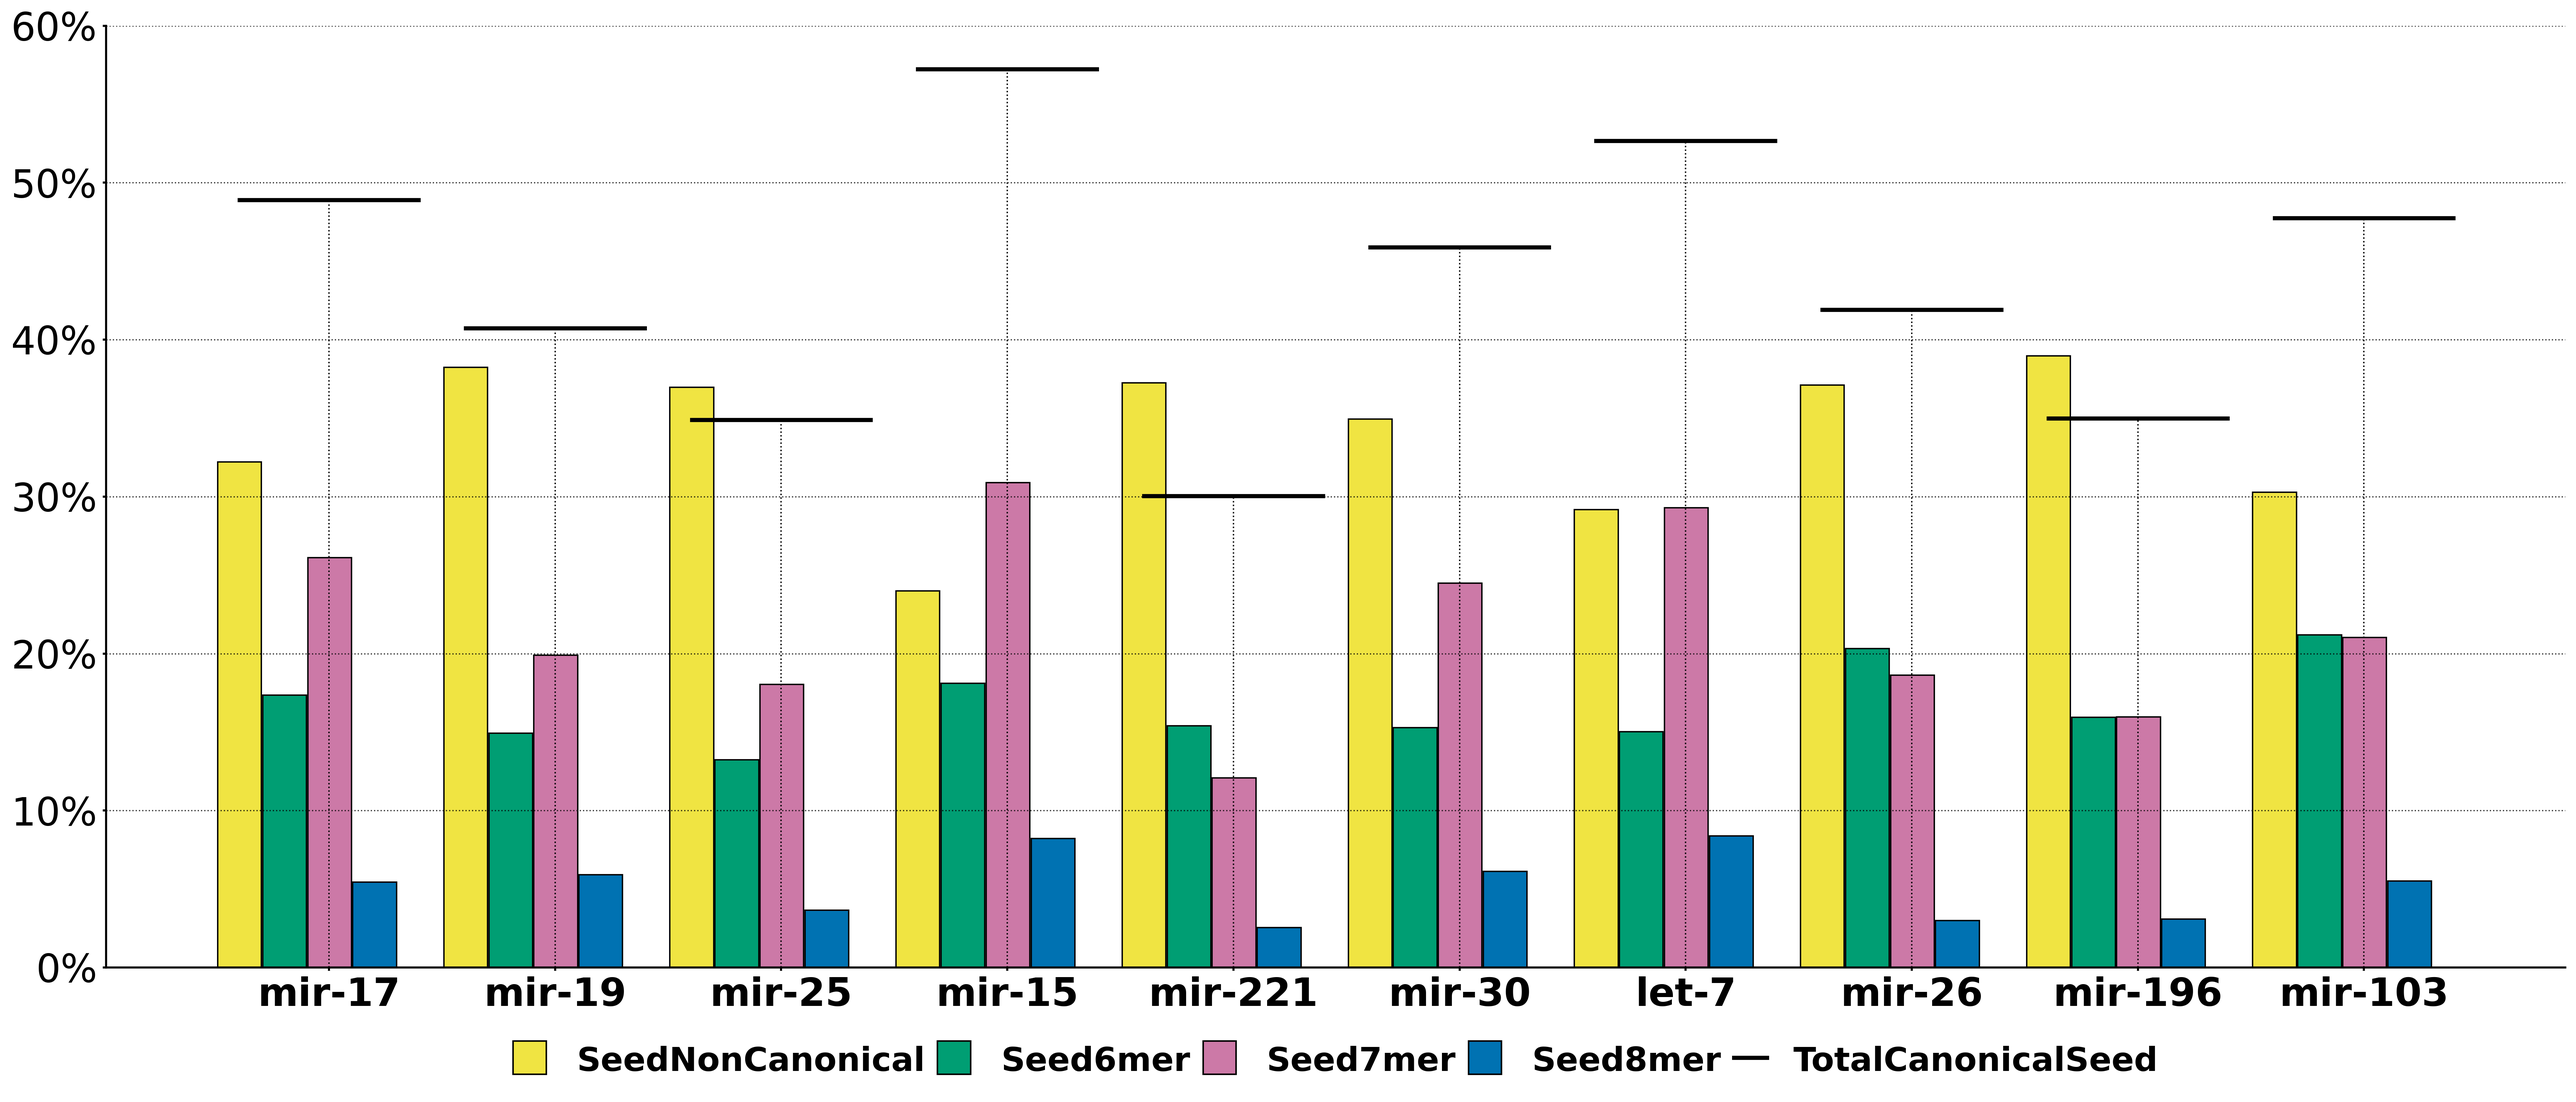
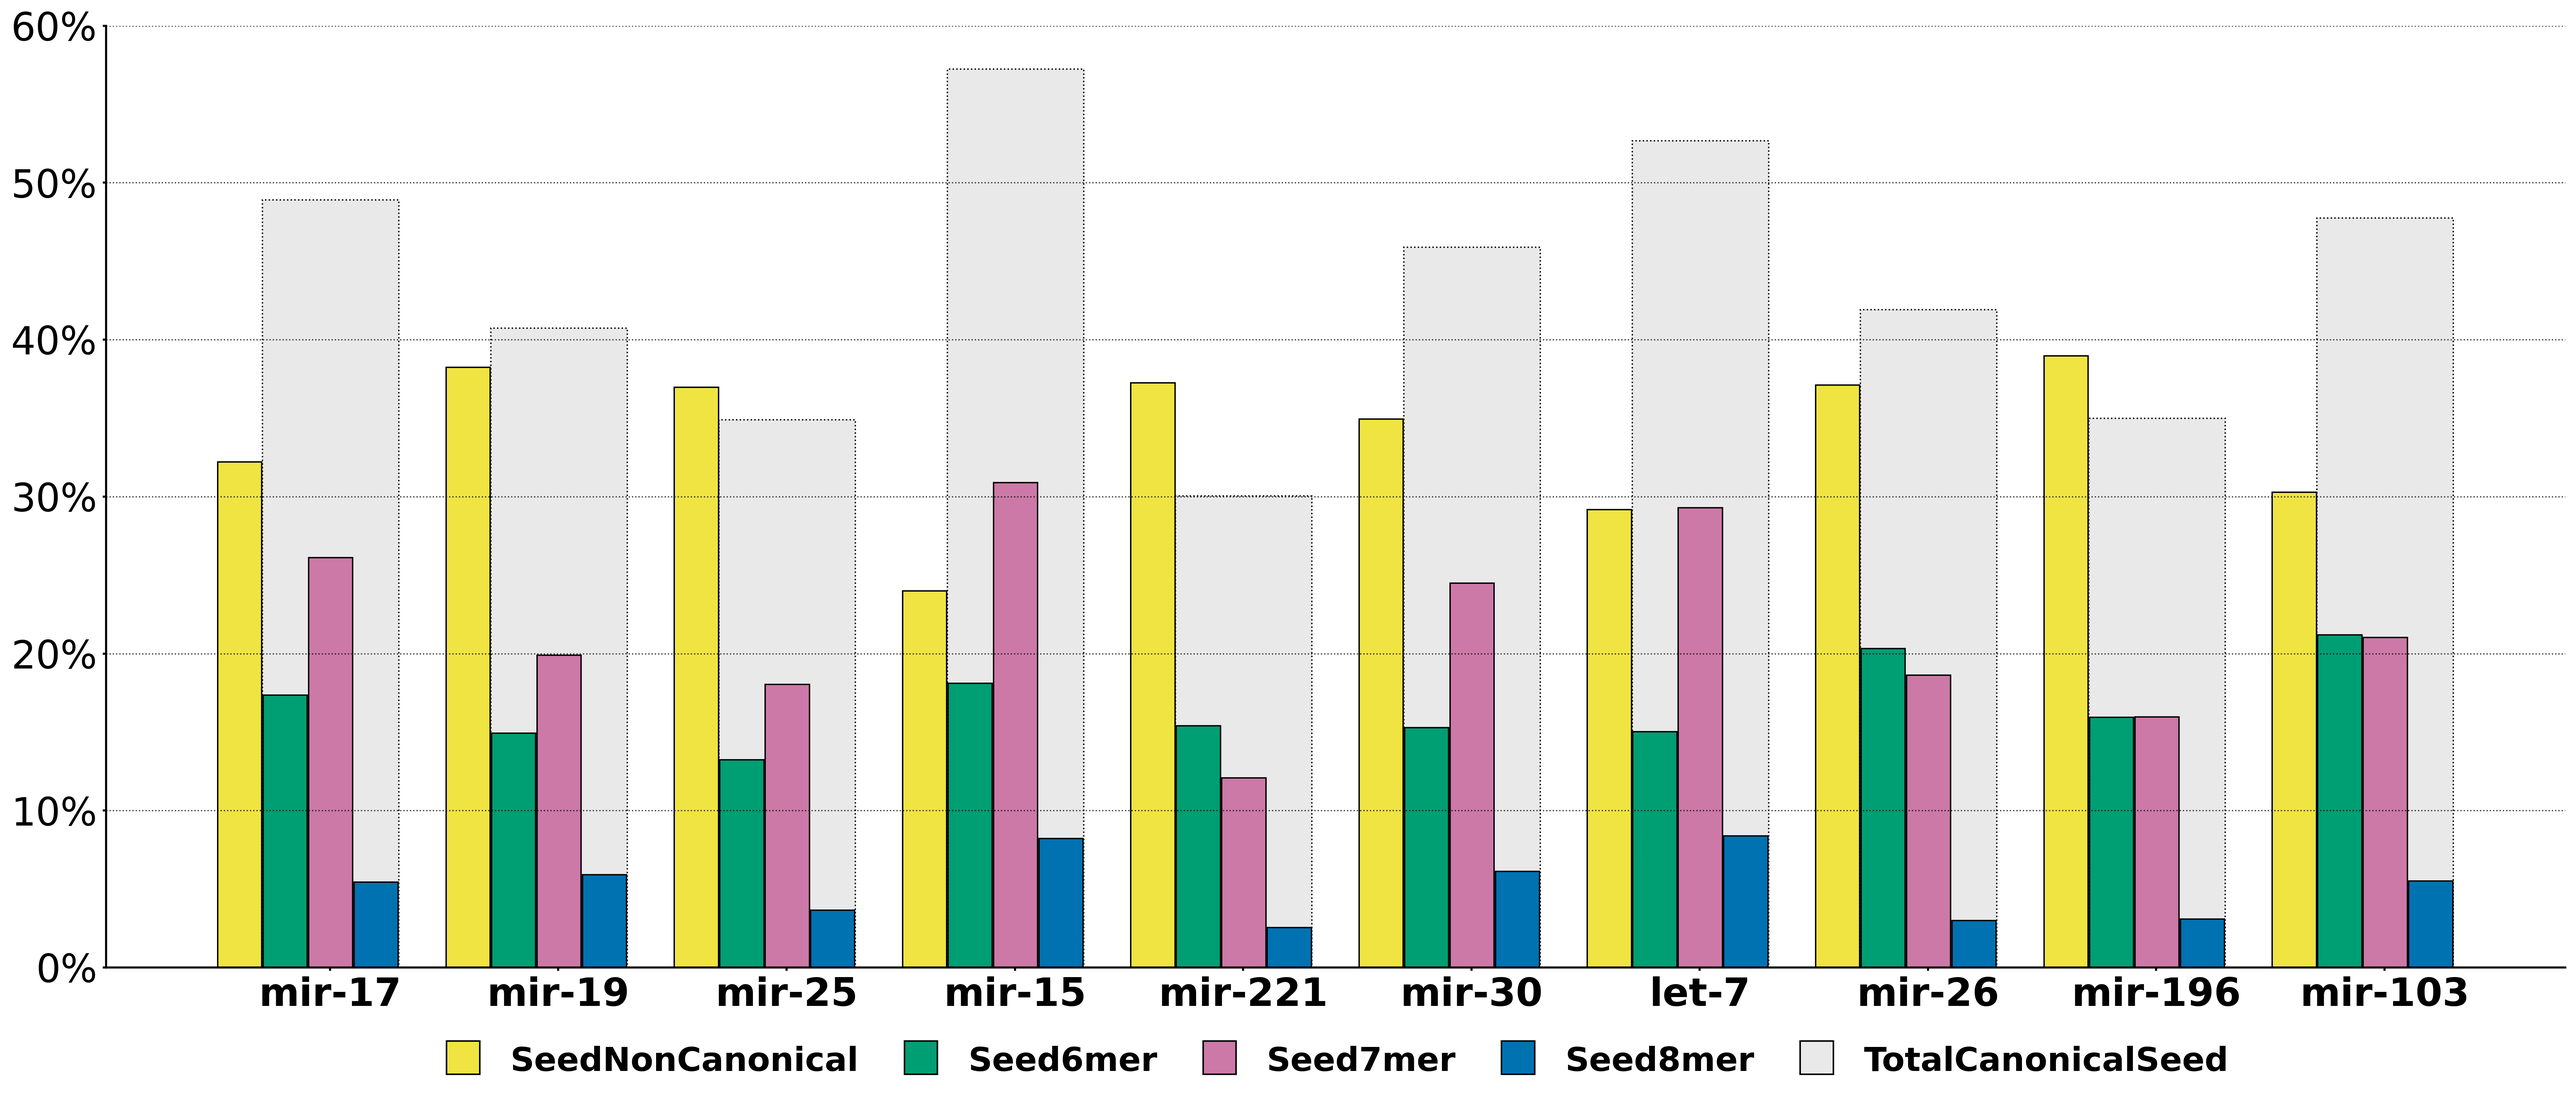
new visual for Fig3C TotalCanonicalSeed

diff --git a/code/plots/Fig3/families.py b/code/plots/Fig3/families.py
@@ -71,7 +71,7 @@ def plot_seed_prevalence(seed_percentages, output_file):
 
     fig, ax = plt.subplots(figsize=(width_inches, height_inches))
 
-    colors = ['#f0e442', '#009e73', '#cc79a7', '#0072b2']
+    colors = ['#f0e442', '#009e73', '#cc79a7', '#0072b2', '#e9e9e9']
 
     # Increase bar width even more
     bar_width = 0.0693 * scale_factor * 3.5  # Increased from 2.5 to 3.5
@@ -88,6 +88,19 @@ def plot_seed_prevalence(seed_percentages, output_file):
 
     index = [left_padding + i * (group_width + group_spacing) for i in range(len(seed_percentages.index))]
 
+    # Rectangle around three seed types for total seed percentage
+    for i, total in enumerate(seed_percentages['TotalCanonicalSeed']):
+        # Calculate the coordinates for the rectangle
+        x_start = index[i] + (bar_width + bar_spacing) / 2
+        y_start = 0
+        width = 3 * (bar_width + bar_spacing)
+        height = total
+
+        # Draw the rectangle around the group of bars
+        rect = Rectangle((x_start, y_start), width, height, facecolor=colors[-1], edgecolor='black', linestyle=':',
+                         linewidth=4 * scale_factor)
+        ax.add_patch(rect)
+
     for i, seed_type in enumerate(['SeedNonCanonical', 'Seed6mer', 'Seed7mer', 'Seed8mer']):
         values = seed_percentages[seed_type]
         bar_positions = [x + i*(bar_width + bar_spacing) for x in index]
@@ -99,13 +112,6 @@ def plot_seed_prevalence(seed_percentages, output_file):
             height = bar.get_height()
             # Increase border width for individual columns
             ax.add_patch(Rectangle((x, y), bar_width, height, fill=False, edgecolor='black', linewidth=4*scale_factor))
-
-    # Bolder horizontal lines for total seed percentage and vertical dotted lines
-    for i, total in enumerate(seed_percentages['TotalCanonicalSeed']):
-        group_center = index[i] + group_width / 2
-        ax.plot([index[i], index[i] + group_width], [total, total], color='black', linewidth=12*scale_factor)
-        # Add vertical dotted line
-        ax.plot([group_center, group_center], [0, total], color='black', linestyle=':', linewidth=4*scale_factor)
 
     ax.set_title('')
     ax.set_xlabel('')
@@ -136,13 +142,13 @@ def plot_seed_prevalence(seed_percentages, output_file):
     legend_handles = [Patch(facecolor=color, edgecolor='black') for color in colors]
 
     # Add black line handle for TotalCanonicalSeed
-    total_seed_handle = Line2D([0], [0], color='black', linewidth=12*scale_factor)
-    legend_handles.append(total_seed_handle)
+    # total_seed_handle = Line2D([0], [0], color='black', linewidth=12*scale_factor)
+    # legend_handles.append(total_seed_handle)
 
     legend_labels = ['SeedNonCanonical', 'Seed6mer', 'Seed7mer', 'Seed8mer', 'TotalCanonicalSeed']
     legend = ax.legend(legend_handles, legend_labels, 
                        loc='upper center', bbox_to_anchor=(0.5, -0.05),
-                       ncol=5, columnspacing=0.5, handlelength=1, handleheight=1,
+                       ncol=5, columnspacing=1.5, handlelength=1, handleheight=1,
                        prop={'size': 96*scale_factor, 'weight': 'semibold'})
 
     for handle in legend.get_patches():

diff --git a/code/plots/Fig3/families_README.md b/code/plots/Fig3/families_README.md
@@ -20,6 +20,17 @@ python families.py dataset1.tsv dataset2.tsv dataset3.tsv -o output_plot.png -t 
 
 The input TSV files should have a header row and include columns named 'seq.g' (guide sequence), 'seq.m' (miRNA sequence), and 'miRNA_fam' (miRNA family).
 
+For *Hejret2023* dataset, you can find the input file [here](https://raw.githubusercontent.com/ML-Bioinfo-CEITEC/HybriDetector/refs/heads/main/ML/Datasets/AGO2_CLASH_Hejret2023_full_dataset.tsv). 
+You need to filter for 'miRNA' only in the 'noncodingRNA_type' column and do deduplication on 'seq.g' + 'noncodingRNA_seq' while keeping the first line occurrence.
+
+For *Klimentova2022* dataset, merge [this raw HybriDetector output](https://raw.githubusercontent.com/ML-Bioinfo-CEITEC/miRBind/refs/heads/main/Datasets/AGO2_eCLIP_Klimentova22_full_dataset.tsv)
+filtered for 'miRNA' only in the 'noncodingRNA_type' column with
+[the file prepared for model testing](https://raw.githubusercontent.com/ML-Bioinfo-CEITEC/miRBind/refs/heads/main/Datasets/AGO2_eCLIP_Klimentova2022_1_test.tsv) filtered for positives only ('label' == 1). 
+Do inner merge based on gene sequence ('seq.g' and 'gene') and miRNA sequence ('noncodingRNA_seq' and 'noncodingRNA') columns.
+
+For *Manakov2022* use product of the pipeline right before the 'make negative' step.
+
+
 ## Output
 
 The script generates two output files:
